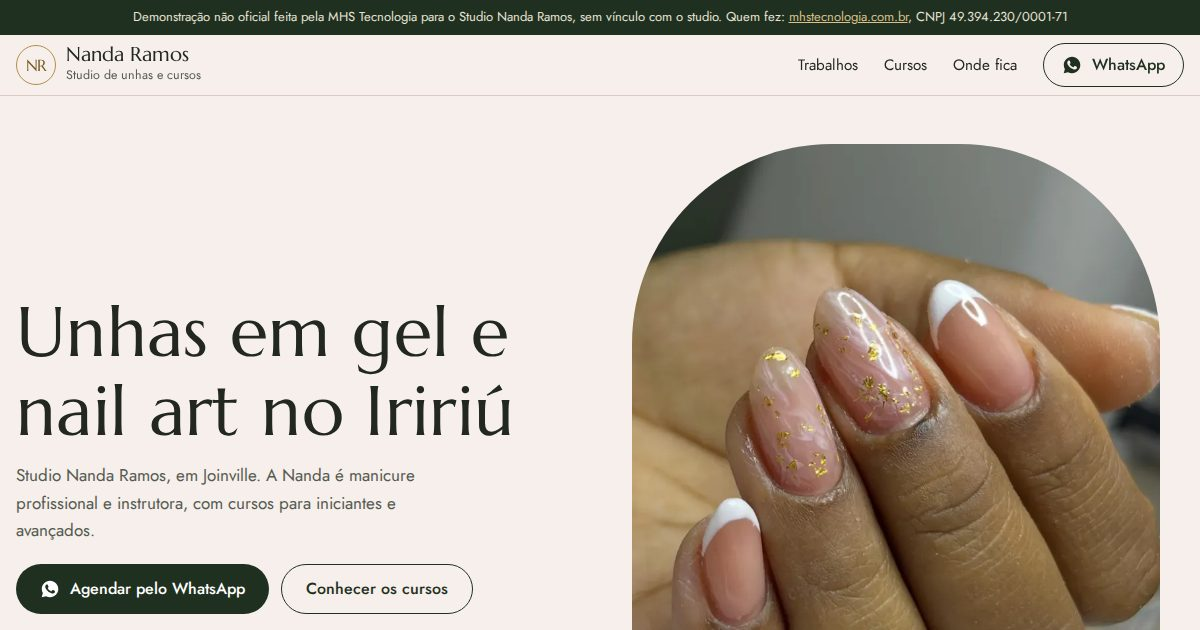
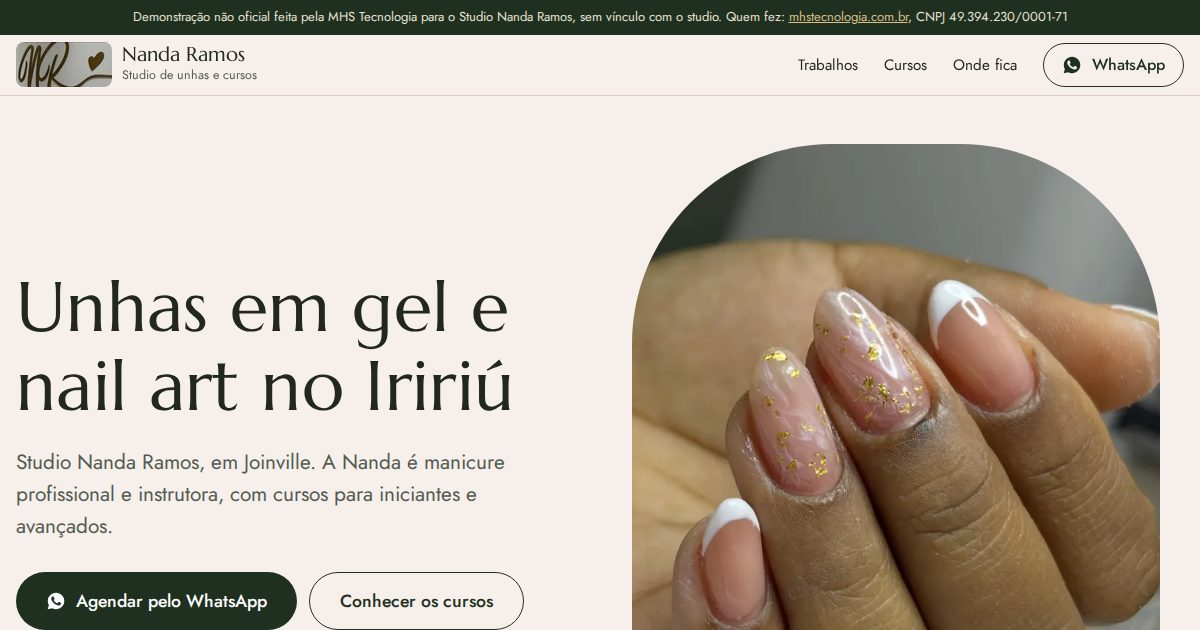
Previews: 72 ativos

Changed region(s): [[0.0, 0.4524, 0.4317, 0.6937], [0.0, 0.7238, 0.4317, 1.0], [0.0, 0.0603, 0.2158, 0.1508]]

diff --git a/nanda-ramos-nails-joinville-sc/index.html b/nanda-ramos-nails-joinville-sc/index.html
@@ -27,7 +27,7 @@
 <div class="aviso" role="note">Demonstração não oficial feita pela MHS Tecnologia para o Studio Nanda Ramos, sem vínculo com o studio. Quem fez: <a href="https://mhstecnologia.com.br/pt">mhstecnologia.com.br</a>, CNPJ 49.394.230/0001-71</div>
 <header class="cab">
   <div class="largura cab-in">
-    <a class="marca" href="#conteudo"><span class="mono" aria-hidden="true">NR</span><span><b>Nanda Ramos</b><small>Studio de unhas e cursos</small></span></a>
+    <a class="marca" href="#conteudo"><img class="logo" src="img/logo-nr-96.webp" srcset="img/logo-nr-96.webp 1x, img/logo-nr-192.webp 2x" width="96" height="45" alt=""><span><b>Nanda Ramos</b><small>Studio de unhas e cursos</small></span></a>
     <nav aria-label="Principal">
       <a class="so-grande" href="#trabalhos">Trabalhos</a>
       <a class="so-grande" href="#cursos">Cursos</a>
@@ -67,10 +67,10 @@
       <li><figure><img src="img/nude-quadrada-400.webp" srcset="img/nude-quadrada-400.webp 400w, img/nude-quadrada-800.webp 800w" sizes="(min-width: 960px) 230px, (min-width: 720px) 33vw, 50vw" width="800" height="800" alt="Unhas quadradas em nude leitoso" loading="lazy" decoding="async"><figcaption>Nude quadrada</figcaption></figure></li>
       <li><figure><img src="img/pink-curta-400.webp" srcset="img/pink-curta-400.webp 400w, img/pink-curta-800.webp 800w" sizes="(min-width: 960px) 230px, (min-width: 720px) 33vw, 50vw" width="800" height="800" alt="Unhas curtas em pink vibrante" loading="lazy" decoding="async"><figcaption>Pink</figcaption></figure></li>
       <li><figure><img src="img/bolinhas-nude-400.webp" srcset="img/bolinhas-nude-400.webp 400w, img/bolinhas-nude-800.webp 800w" sizes="(min-width: 960px) 230px, (min-width: 720px) 33vw, 50vw" width="800" height="800" alt="Unhas nude com francesinha marrom e bolinhas brancas" loading="lazy" decoding="async"><figcaption>Francesinha marrom com bolinhas</figcaption></figure></li>
-      <li class="mais"><figure><img src="img/perolado-400.webp" srcset="img/perolado-400.webp 400w, img/perolado-800.webp 800w" sizes="(min-width: 960px) 230px, (min-width: 720px) 33vw, 50vw" width="800" height="800" alt="Unhas cinza com brilho perolado" loading="lazy" decoding="async"><figcaption>Cinza perolado</figcaption></figure></li>
-      <li class="mais"><figure><img src="img/nude-rosa-400.webp" srcset="img/nude-rosa-400.webp 400w, img/nude-rosa-800.webp 800w" sizes="(min-width: 960px) 230px, (min-width: 720px) 33vw, 50vw" width="800" height="800" alt="Unhas nude rosado com uma unha rosa de pedrinhas douradas" loading="lazy" decoding="async"><figcaption>Nude rosado com pedrinhas</figcaption></figure></li>
+      <li class="mais"><figure><img src="img/perolado-400.webp" srcset="img/perolado-400.webp 400w, img/perolado-800.webp 800w" sizes="(min-width: 960px) 230px, (min-width: 720px) 33vw, 50vw" width="800" height="800" alt="Unhas cinza, uma delas com brilho" loading="lazy" decoding="async"><figcaption>Cinza com brilho</figcaption></figure></li>
+      <li class="mais"><figure><img src="img/nude-rosa-400.webp" srcset="img/nude-rosa-400.webp 400w, img/nude-rosa-800.webp 800w" sizes="(min-width: 960px) 230px, (min-width: 720px) 33vw, 50vw" width="800" height="800" alt="Unhas nude rosado com uma unha rosa de detalhes dourados" loading="lazy" decoding="async"><figcaption>Nude rosado com detalhes dourados</figcaption></figure></li>
       <li class="mais"><figure><img src="img/pes-400.webp" srcset="img/pes-400.webp 400w, img/pes-800.webp 800w" sizes="(min-width: 960px) 230px, (min-width: 720px) 33vw, 50vw" width="800" height="800" alt="Pés com unhas em branco leitoso sobre um pano verde" loading="lazy" decoding="async"><figcaption>Pés</figcaption></figure></li>
-      <li class="mais"><figure><img src="img/chocolate-400.webp" srcset="img/chocolate-400.webp 400w, img/chocolate-800.webp 800w" sizes="(min-width: 960px) 230px, (min-width: 720px) 33vw, 50vw" width="800" height="800" alt="Mão com anéis dourados e unhas amendoadas em chocolate" loading="lazy" decoding="async"><figcaption>Chocolate</figcaption></figure></li>
+      <li class="mais"><figure><img src="img/chocolate-400.webp" srcset="img/chocolate-400.webp 400w, img/chocolate-800.webp 800w" sizes="(min-width: 960px) 230px, (min-width: 720px) 33vw, 50vw" width="800" height="800" alt="Mão com anel dourado e unhas amendoadas em marrom escuro" loading="lazy" decoding="async"><figcaption>Marrom escuro</figcaption></figure></li>
       <li class="mais"><figure><img src="img/milky-400.webp" srcset="img/milky-400.webp 400w, img/milky-800.webp 800w" sizes="(min-width: 960px) 230px, (min-width: 720px) 33vw, 50vw" width="800" height="800" alt="Unhas amendoadas em rosa leitoso" loading="lazy" decoding="async"><figcaption>Rosa leitoso</figcaption></figure></li>
       <li class="mais"><figure><img src="img/nude-natural-400.webp" srcset="img/nude-natural-400.webp 400w, img/nude-natural-800.webp 800w" sizes="(min-width: 960px) 230px, (min-width: 720px) 33vw, 50vw" width="800" height="800" alt="Unhas curtas em nude bege" loading="lazy" decoding="async"><figcaption>Nude curta</figcaption></figure></li>
       <li class="mais"><figure><img src="img/nude-longa-400.webp" srcset="img/nude-longa-400.webp 400w, img/nude-longa-800.webp 800w" sizes="(min-width: 960px) 230px, (min-width: 720px) 33vw, 50vw" width="800" height="800" alt="Unhas quadradas em nude, com brilho" loading="lazy" decoding="async"><figcaption>Nude com brilho</figcaption></figure></li>
@@ -109,9 +109,9 @@
       <h2 id="t-cursos">Cursos de unhas para iniciantes e avançados</h2>
       <p class="intro">Além de atender, a Nanda é instrutora e forma novas manicures.</p>
       <ul class="niveis">
-        <li><b>Iniciantes</b><span>Para quem está começando nas unhas.</span></li>
-        <li><b>Avançados</b><span>Para quem já trabalha com unhas.</span></li>
-        <li><b>Formação Master</b><span>Pergunte pelo WhatsApp como funciona e quando abre turma.</span></li>
+        <li><b>Iniciantes</b></li>
+        <li><b>Avançados</b></li>
+        <li><b>Formação Master</b><span>Pergunte pelo WhatsApp como funciona.</span></li>
       </ul>
       <div class="acoes">
         <a class="btn btn-ouro" href="https://wa.me/554791708083?text=Ol%C3%A1%2C%20Nanda%21%20Quero%20saber%20sobre%20os%20cursos."><svg aria-hidden="true"><use href="#wa"/></svg><span>Perguntar sobre os cursos</span></a>
@@ -153,7 +153,7 @@
 <footer class="rodape">
   <div class="largura rodape-in">
     <div>
-      <p class="marca"><span class="mono" aria-hidden="true">NR</span><span><b>Studio Nanda Ramos</b><small>Unhas e cursos em Joinville</small></span></p>
+      <p class="marca"><img class="logo" src="img/logo-nr-96.webp" srcset="img/logo-nr-96.webp 1x, img/logo-nr-192.webp 2x" width="96" height="45" alt=""><span><b>Studio Nanda Ramos</b><small>Unhas e cursos em Joinville</small></span></p>
     </div>
     <div>
       <h2>Onde estamos</h2>

diff --git a/nanda-ramos-nails-joinville-sc/estilo.css b/nanda-ramos-nails-joinville-sc/estilo.css
@@ -36,7 +36,7 @@ p { margin: 0; }
 .cab { position: sticky; top: 0; z-index: 20; background: rgb(246 239 236 / .94); backdrop-filter: blur(8px); border-bottom: 1px solid var(--linha); }
 .cab-in { display: flex; align-items: center; justify-content: space-between; gap: 16px; min-height: 60px; }
 .marca { display: flex; align-items: center; gap: 10px; text-decoration: none; }
-.mono { display: grid; place-items: center; width: 40px; height: 40px; border-radius: 50%; border: 1.5px solid var(--ouro); font: 400 1rem/1 var(--serif); color: var(--ouro-texto); letter-spacing: -.04em; }
+.logo { height: 45px; width: auto; border-radius: 8px; flex: none; }
 .marca b { display: block; font: 400 1.25rem/1.1 var(--serif); }
 .marca small { display: block; font-size: .78rem; color: var(--suave); }
 .cab nav { display: flex; align-items: center; gap: 26px; }
@@ -93,7 +93,7 @@ p { margin: 0; }
 .camadas .txt b { display: block; font-weight: 600; font-size: .98rem; line-height: 1.2; }
 .camadas .txt b::before { content: counter(c) ". "; color: var(--ouro-texto); }
 .camadas .txt span { display: block; font-size: .88rem; color: var(--suave); line-height: 1.3; }
-.l-prep { background: radial-gradient(circle at 20% 40%, #f5e3a8 1.5px, transparent 2px) 0 0 / 9px 9px, radial-gradient(circle at 70% 60%, #fff3c9 1px, transparent 1.6px) 0 0 / 7px 7px, linear-gradient(#c9a65c, #a8833c); }
+.l-prep { background: linear-gradient(105deg, transparent 20%, rgb(255 246 214 / .55) 38%, transparent 52%, rgb(255 240 196 / .35) 70%, transparent 82%), repeating-linear-gradient(115deg, rgb(255 236 180 / .22) 0 2px, transparent 2px 5px), linear-gradient(#d4b169, #a9843d); }
 .l-desidrat { background: linear-gradient(#ffffff, #e9e6e1); }
 .l-acido { background: linear-gradient(#e6eedb, #cad8bb); }
 .l-adesivador { background: linear-gradient(rgb(255 255 255 / .85), rgb(240 238 236 / .6)); }
@@ -149,7 +149,6 @@ p { margin: 0; }
 .rodape-in { display: grid; gap: 28px; }
 .rodape .marca b { color: #fff; }
 .rodape .marca small { color: #c3c8b8; }
-.rodape .mono { color: var(--ouro-claro); border-color: var(--ouro-claro); }
 .rodape h2 { font: 500 .95rem/1.3 var(--sans); color: #fff; margin-bottom: 6px; }
 .rodape a { color: var(--ouro-claro); }
 .legal { margin-top: 36px; padding-top: 20px; border-top: 1px solid rgb(255 255 255 / .15); font-size: .85rem; color: #bfc4b4; display: grid; gap: 6px; }
@@ -172,6 +171,10 @@ p { margin: 0; }
   .hero { padding: 48px 0 88px; }
   .hero-in { grid-template-columns: 1fr 1fr; align-items: center; gap: 64px; }
   .hero-txt { order: -1; }
+  .hero .sub { font-size: 1.3rem; line-height: 1.55; margin-top: 20px; }
+  .hero .acoes { margin-top: 30px; }
+  .hero .acoes .btn { min-height: 58px; padding: 14px 30px; font-size: 1.1rem; }
+  .hero .onde { font-size: 1rem; margin-top: 24px; }
   .hero-foto { margin: 0; aspect-ratio: 4 / 5; max-height: 660px; border-radius: 200px 200px 8px 8px; }
   .hero-foto img { object-position: 30% 40%; }
   .secao { padding-block: 104px; }
